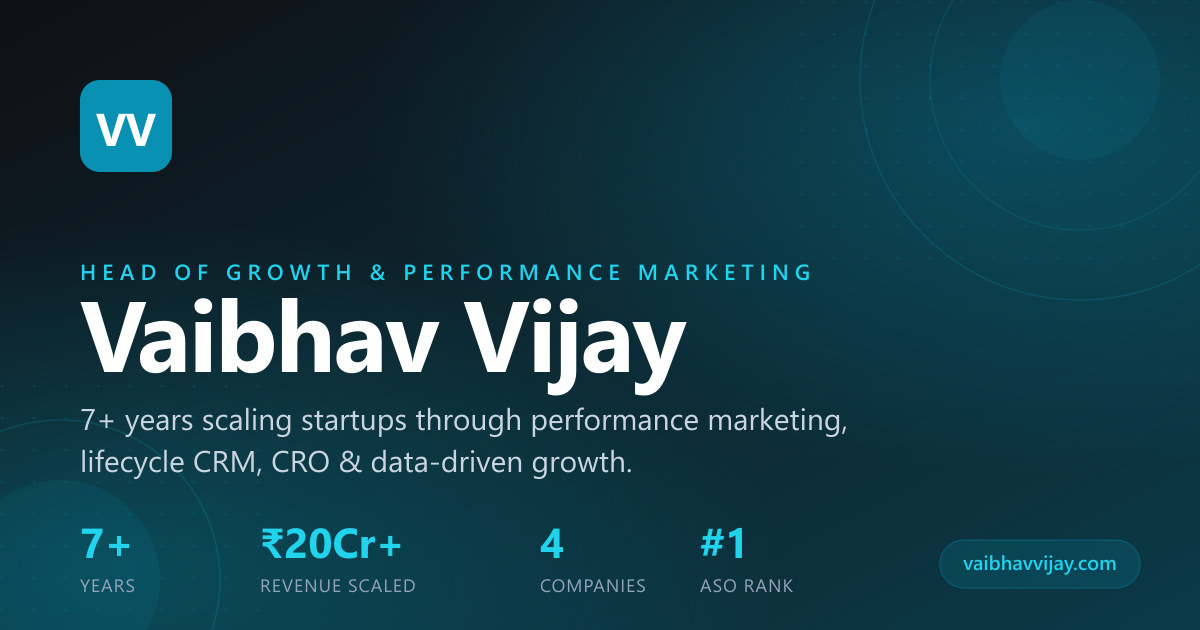
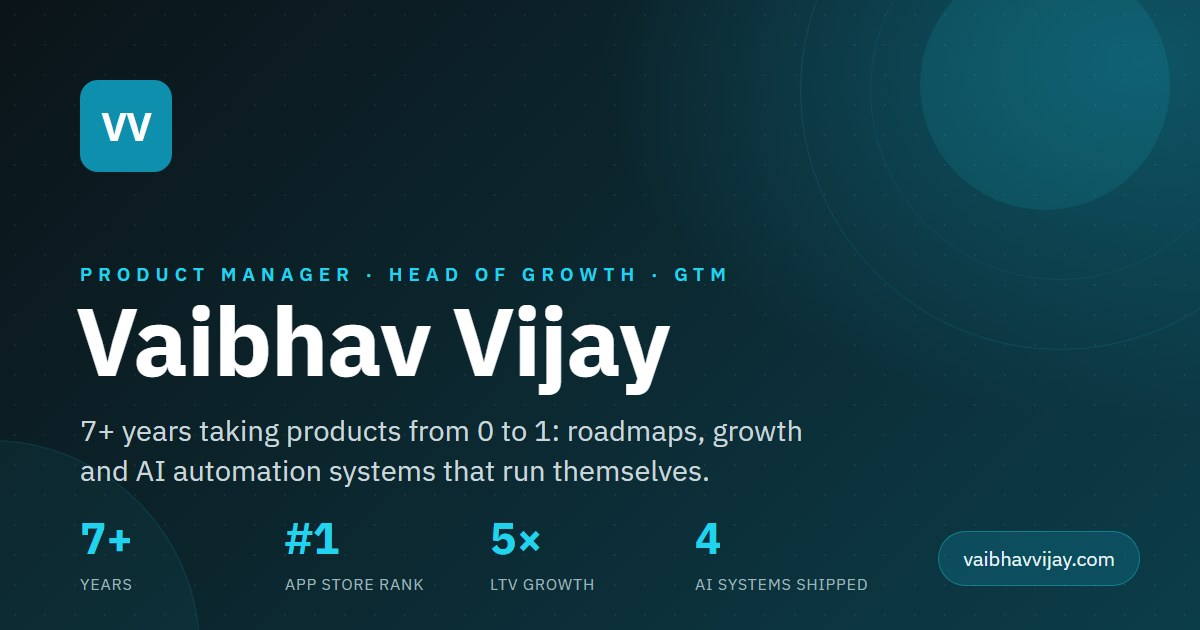
New share image for link previews (LinkedIn, WhatsApp, X)
The og:image still showed "Head of Growth & Performance Marketing" and
"Rs 20Cr+ revenue scaled". Redrawn in the same design with the current
positioning (Product Manager · Head of Growth · GTM) and figures already
on the site: 7+ years, #1 App Store rank, 5x LTV, 4 AI systems shipped.

Served under a new file name so LinkedIn and other caches fetch it fresh;
og-image.jpg overwritten too for anything still pointing at the old URL.
Image alt text updated.

diff --git a/index.html b/index.html
@@ -26,11 +26,11 @@
     <meta property="og:url" content="https://vaibhavvijay.com/" />
     <meta property="og:title" content="Vaibhav Vijay | Product Manager · Head of Growth · GTM Strategy" />
     <meta property="og:description" content="Vaibhav Vijay is a Product Manager and Head of Growth with 7+ years taking consumer and B2B products from 0 to 1 across India and international markets: roadmaps, PRDs, GTM, performance marketing, lifecycle CRM and AI automation systems. Took an app from #180 to #1 in its App Store category and grew LTV 5x." />
-    <meta property="og:image" content="https://vaibhavvijay.com/og-image.jpg" />
-    <meta property="og:image:secure_url" content="https://vaibhavvijay.com/og-image.jpg" />
+    <meta property="og:image" content="https://vaibhavvijay.com/og-vaibhav-vijay.jpg" />
+    <meta property="og:image:secure_url" content="https://vaibhavvijay.com/og-vaibhav-vijay.jpg" />
     <meta property="og:image:width" content="1200" />
     <meta property="og:image:height" content="630" />
-    <meta property="og:image:alt" content="Vaibhav Vijay — Head of Growth &amp; Performance Marketing Leader" />
+    <meta property="og:image:alt" content="Vaibhav Vijay, Product Manager and Head of Growth" />
     <meta property="og:site_name" content="Vaibhav Vijay" />
     <meta property="profile:first_name" content="Vaibhav" />
     <meta property="profile:last_name" content="Vijay" />
@@ -41,8 +41,8 @@
     <meta name="twitter:url" content="https://vaibhavvijay.com/" />
     <meta name="twitter:title" content="Vaibhav Vijay | Product Manager · Head of Growth · GTM Strategy" />
     <meta name="twitter:description" content="Vaibhav Vijay is a Product Manager and Head of Growth with 7+ years taking consumer and B2B products from 0 to 1 across India and international markets: roadmaps, PRDs, GTM, performance marketing, lifecycle CRM and AI automation systems. Took an app from #180 to #1 in its App Store category and grew LTV 5x." />
-    <meta name="twitter:image" content="https://vaibhavvijay.com/og-image.jpg" />
-    <meta name="twitter:image:alt" content="Vaibhav Vijay — Head of Growth &amp; Performance Marketing Leader" />
+    <meta name="twitter:image" content="https://vaibhavvijay.com/og-vaibhav-vijay.jpg" />
+    <meta name="twitter:image:alt" content="Vaibhav Vijay, Product Manager and Head of Growth" />
     <meta name="twitter:creator" content="@vaibhavvijay" />
     <meta name="twitter:site" content="@vaibhavvijay" />
 
@@ -195,7 +195,7 @@
       "@id": "https://vaibhavvijay.com/#service",
       "name": "Vaibhav Vijay — Growth & Performance Marketing Consulting",
       "url": "https://vaibhavvijay.com/",
-      "image": "https://vaibhavvijay.com/og-image.jpg",
+      "image": "https://vaibhavvijay.com/og-vaibhav-vijay.jpg",
       "description": "Growth strategy, performance marketing, lifecycle CRM and CRO consulting for startups and digital-first brands.",
       "founder": { "@id": "https://vaibhavvijay.com/#person" },
       "areaServed": [
@@ -259,7 +259,7 @@
   "about": {
     "@id": "https://vaibhavvijay.com/#person"
   },
-  "primaryImageOfPage": "https://vaibhavvijay.com/og-image.jpg",
+  "primaryImageOfPage": "https://vaibhavvijay.com/og-vaibhav-vijay.jpg",
   "inLanguage": "en",
   "dateModified": "2026-10-15",
   "speakable": {

diff --git a/src/pages/BlogPostPage.tsx b/src/pages/BlogPostPage.tsx
@@ -57,7 +57,7 @@ export default function BlogPostPage({ slug }: Props) {
     const title = `${post.title} | Vaibhav Vijay`;
     const image = post.infographicUrl
       ? `${SITE_URL}${post.infographicUrl}`
-      : `${SITE_URL}/og-image.jpg`;
+      : `${SITE_URL}/og-vaibhav-vijay.jpg`;
 
     document.title = title;
 
@@ -126,7 +126,7 @@ export default function BlogPostPage({ slug }: Props) {
       const homeTitle = "Vaibhav Vijay | Product Manager & Head of Growth (7+ Yrs)";
       const homeDesc =
         "Vaibhav Vijay is a Head of Growth and Performance Marketing leader with 7+ years scaling startups and digital brands. Expertise in growth strategy, performance marketing (Meta, Google, Apple Search Ads), lifecycle marketing, CRM, retention, CRO and go-to-market strategy.";
-      const homeImage = `${SITE_URL}/og-image.jpg`;
+      const homeImage = `${SITE_URL}/og-vaibhav-vijay.jpg`;
 
       document.title = homeTitle;
       document
